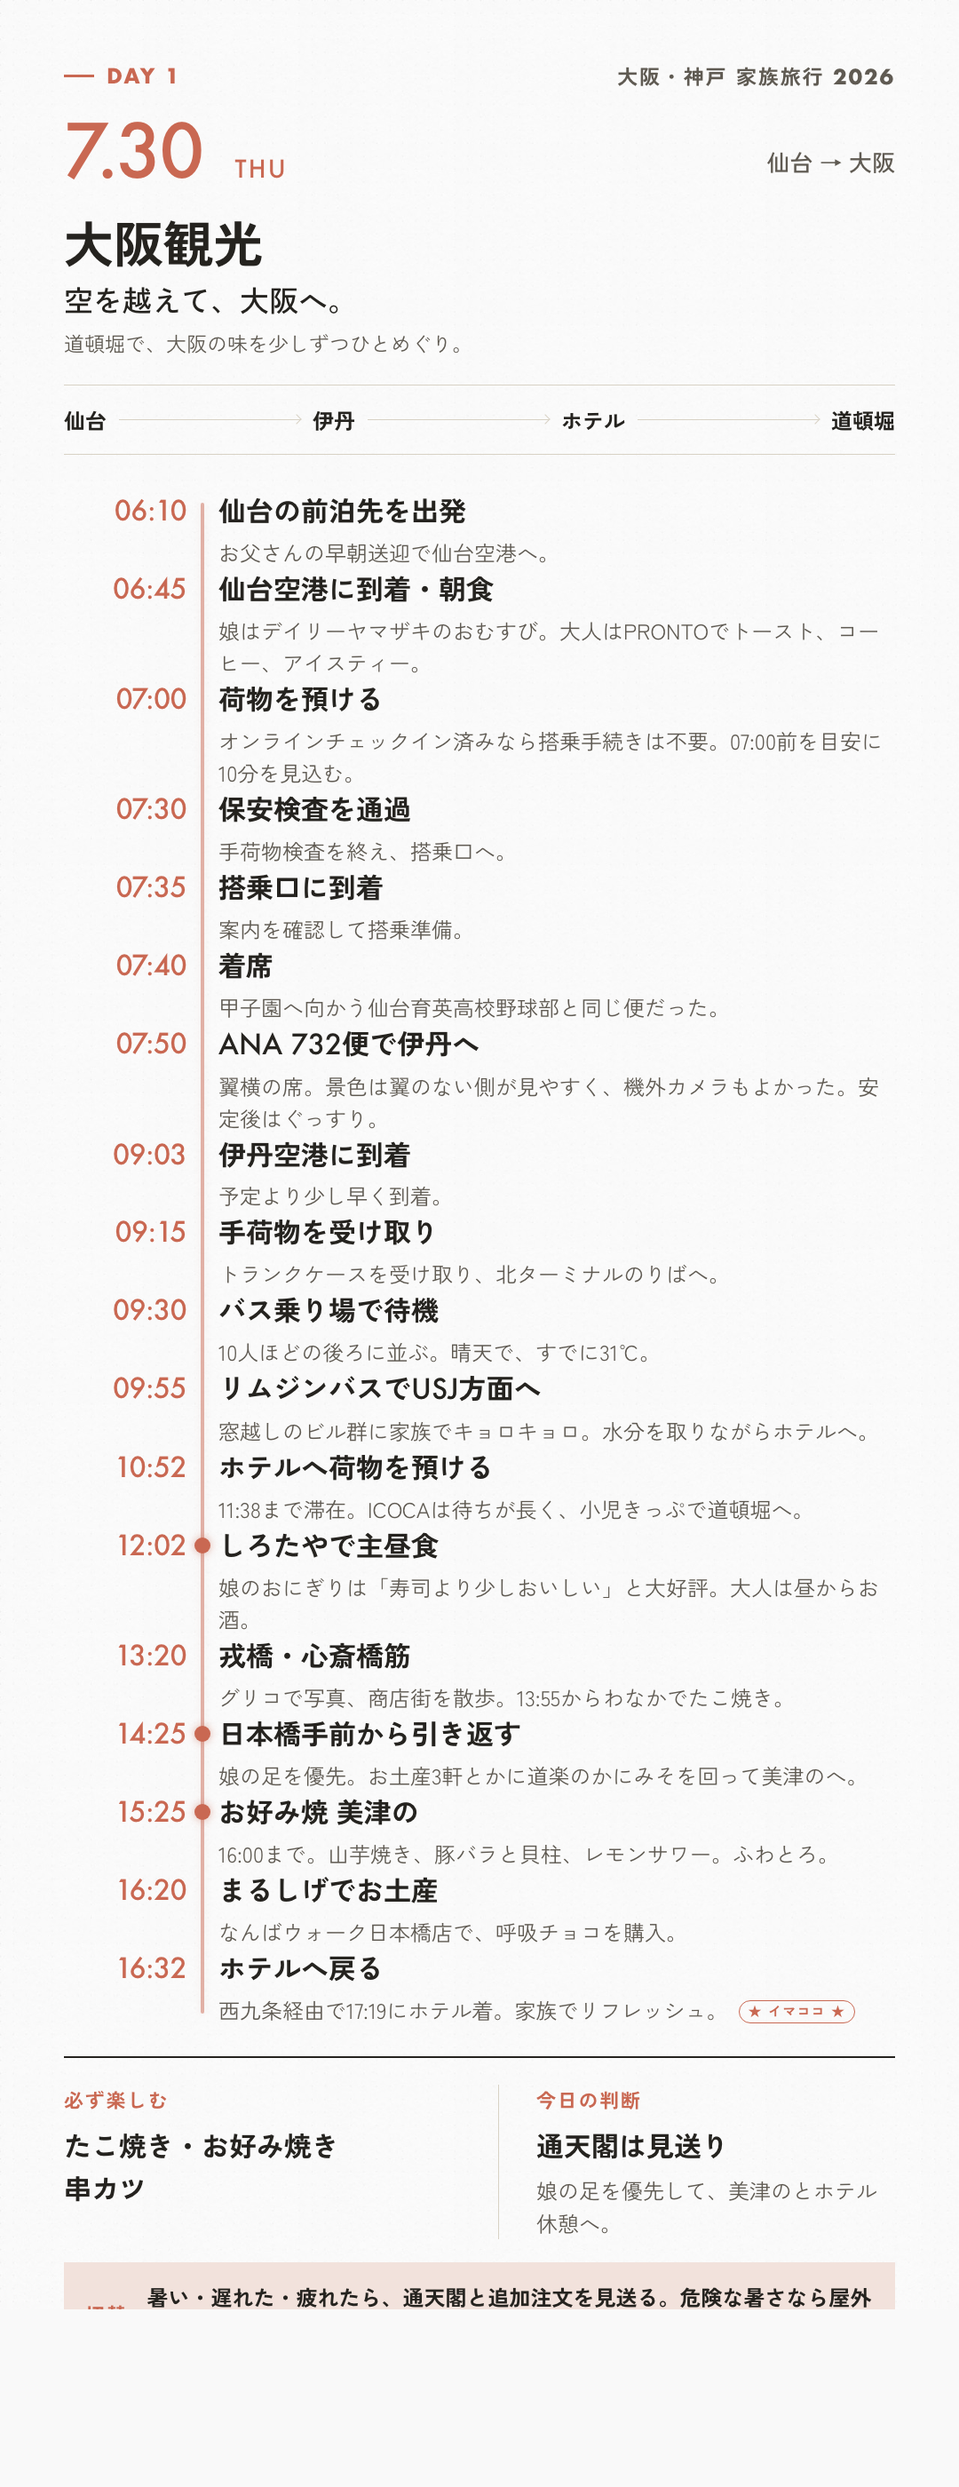
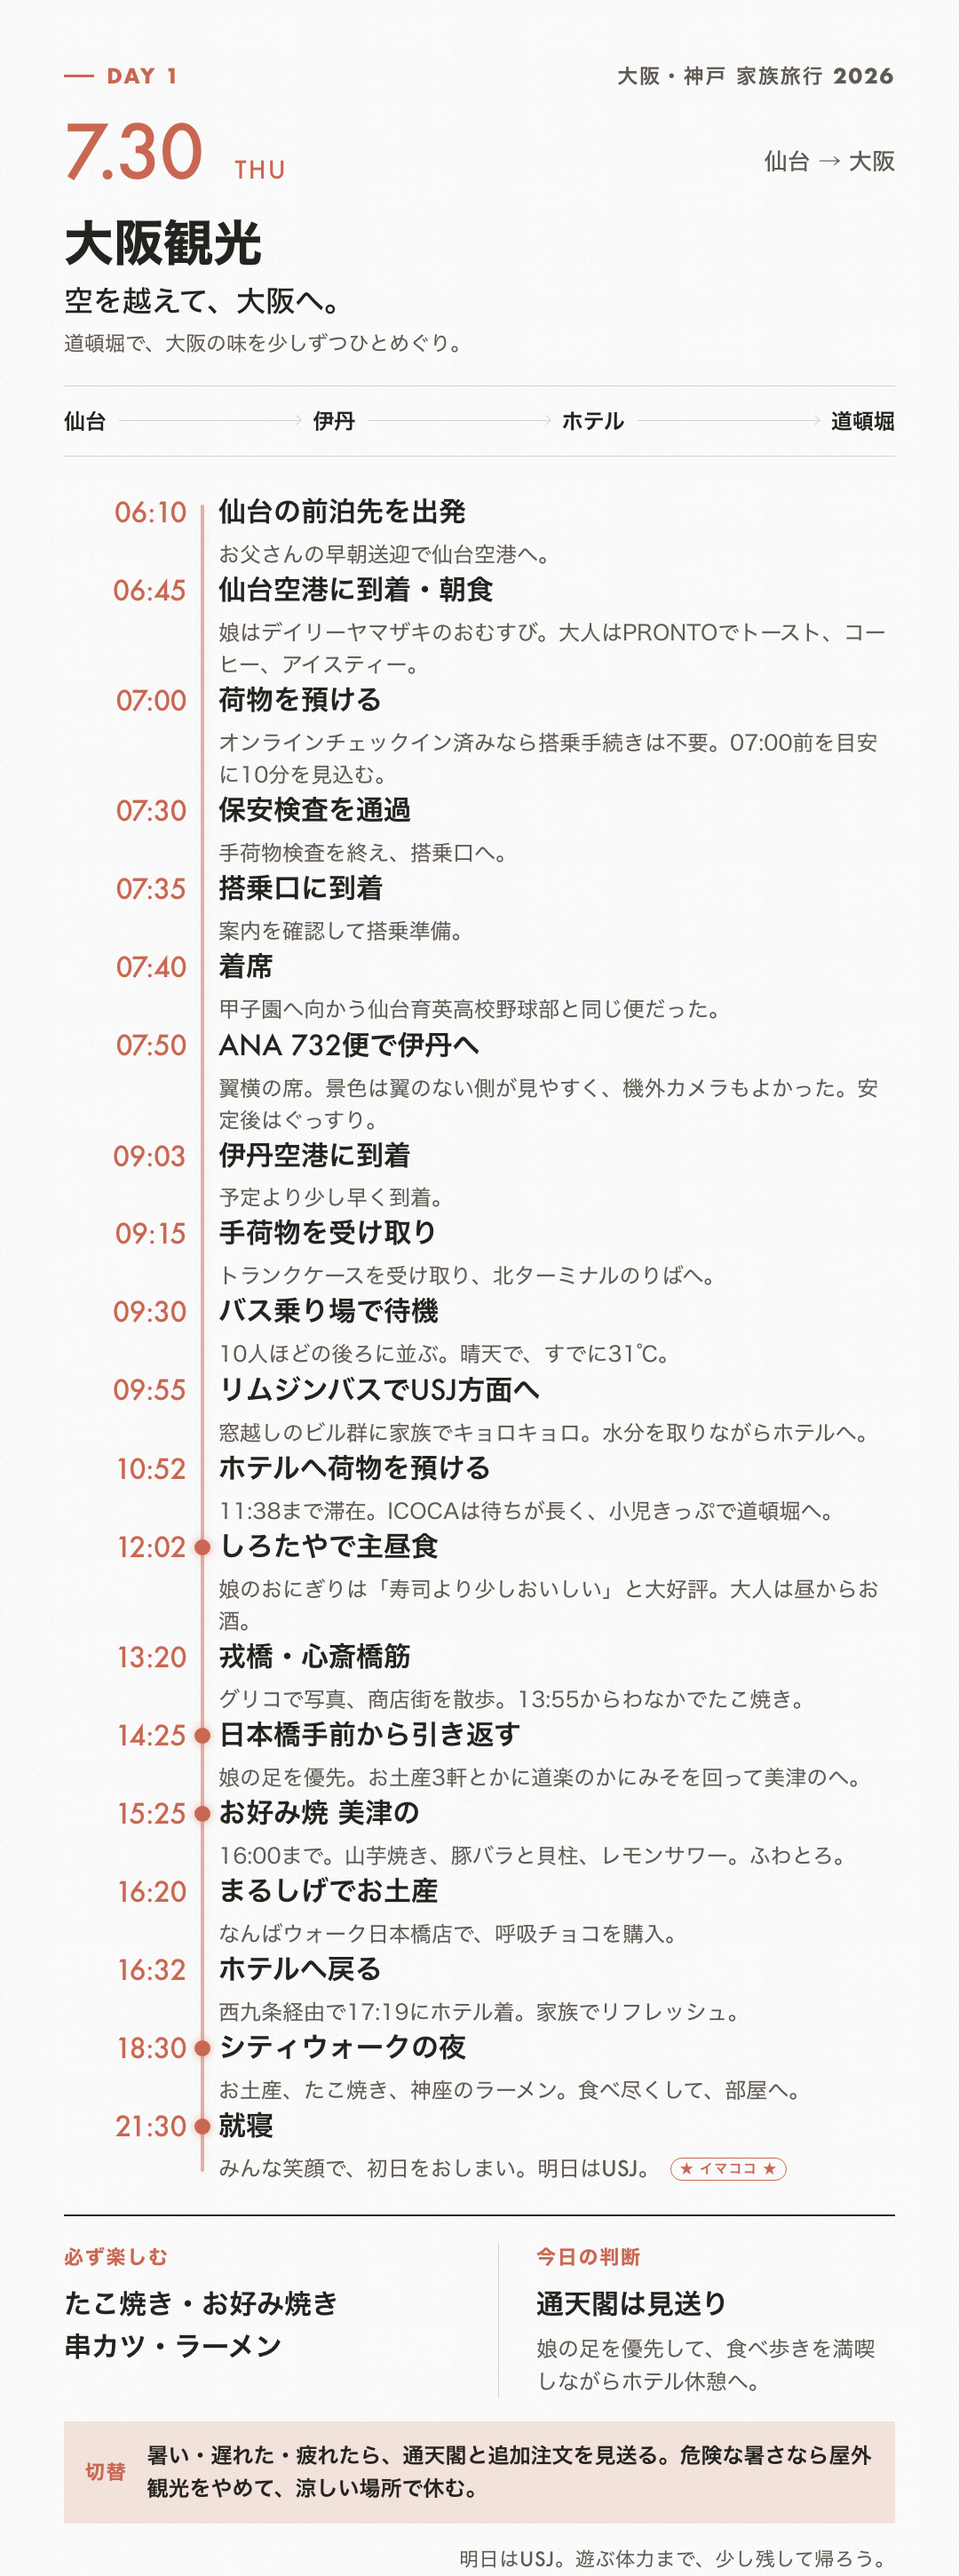
Record first day evening at CityWalk

diff --git a/docs/trip-plan.html b/docs/trip-plan.html
@@ -259,7 +259,21 @@
               <time>16:32</time>
               <div>
                 <h3>近鉄日本橋からホテルへ</h3>
-                <p>16:56に西九条、17:11にユニバーサルシティ駅へ。17:19にホテルへ戻り、家族でリフレッシュ。<span class="now-marker">★ イマココ ★</span></p>
+                <p>16:56に西九条、17:11にユニバーサルシティ駅へ。17:19にホテルへ戻り、家族でリフレッシュ。</p>
+              </div>
+            </div>
+            <div class="timeline__item">
+              <time>18:30</time>
+              <div>
+                <h3>ユニバーサル・シティウォークの夜</h3>
+                <p>お土産を選び、TAKOPAでたこ焼き、神座でラーメン。今日は食べ過ぎたが、思い残すことはない。</p>
+              </div>
+            </div>
+            <div class="timeline__item">
+              <time>21:30</time>
+              <div>
+                <h3>就寝</h3>
+                <p>みんな笑顔で初日を終えた。明日はUSJ。<span class="now-marker">★ イマココ ★</span></p>
               </div>
             </div>
           </div>

diff --git a/docs/index.html b/docs/index.html
@@ -117,7 +117,7 @@
               src="guide/day-1.png"
               alt="7月30日、大阪観光日のしおり"
               width="1080"
-              height="2800"
+              height="2900"
               loading="lazy"
             />
           </figure>
